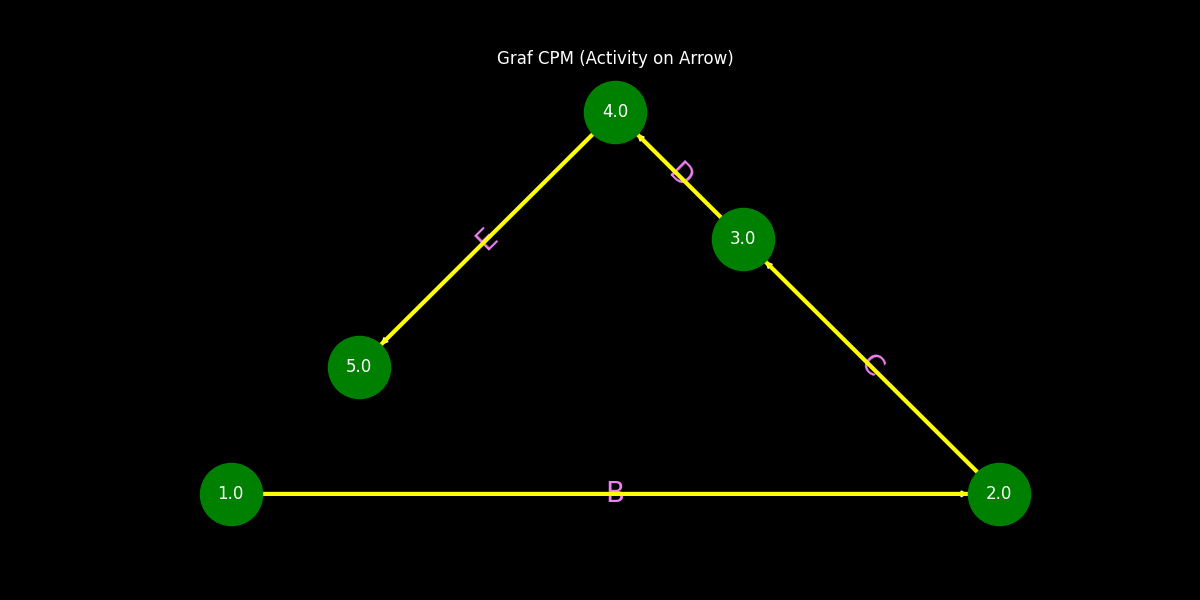
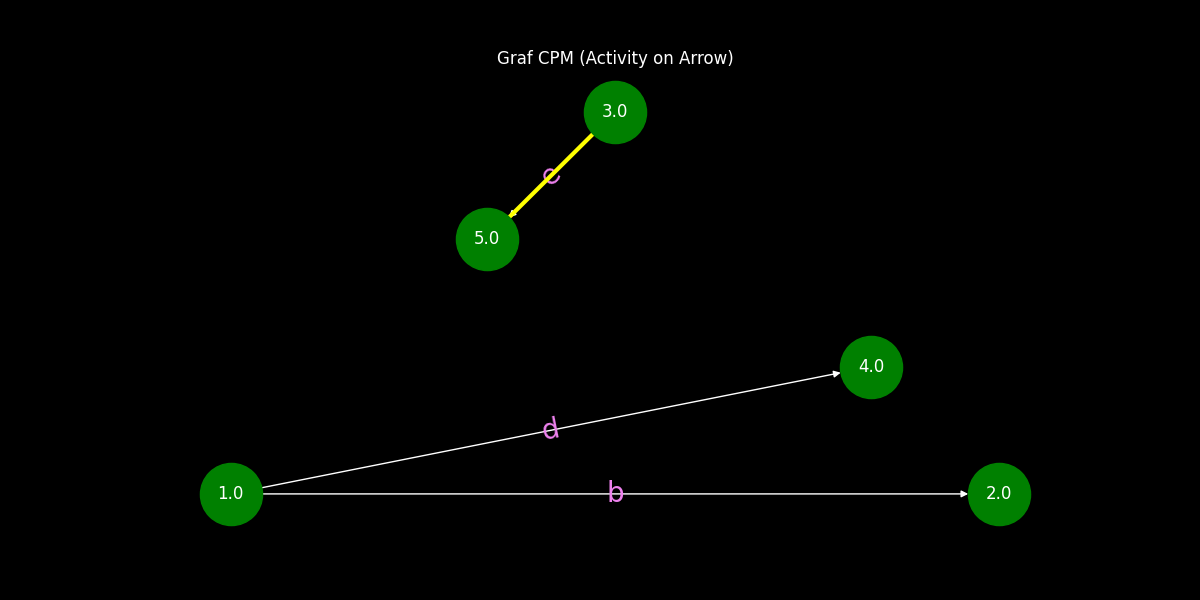
Aplikacja CPM - 1.0.3 - Rezerwa To Jest na Boisku

diff --git a/Script.js b/Script.js
@@ -187,6 +187,7 @@ function displayCalculations(calculations, criticalPath) {
         "Najwcześniejsze Zakończenie",
         "Najpóźniejszy Start",
         "Najpóźniejsze Zakończenie",
+        "Rezerwa Czasu",
         "Czy ŚK?"
     ];
     headers.forEach(header => {
@@ -210,9 +211,11 @@ function displayCalculations(calculations, criticalPath) {
         tdLS.innerText = calc.latest_start;
         let tdLF = document.createElement('td');
         tdLF.innerText = calc.latest_finish;
+        let tdSlack = document.createElement('td');
+        tdSlack.innerText = calc.latest_finish - calc.earliest_finish;
         let tdIsCritical = document.createElement('td');
         tdIsCritical.innerText = criticalPath.includes(calc.task) ? "Tak" : "Nie";
-        tr.append(tdTask, tdES, tdEF, tdLS, tdLF, tdIsCritical);
+        tr.append(tdTask, tdES, tdEF, tdLS, tdLF, tdSlack, tdIsCritical);
         tbody.appendChild(tr);
     });
     table.appendChild(tbody);

diff --git a/CPMGrafy.py b/CPMGrafy.py
@@ -31,21 +31,35 @@ def visualize_cpm_graph(tasks, critical_path=None): # Wizualizacja Grafu CPM Act
     nx.draw(G, pos, with_labels=False, node_color='green', edge_color='white', node_size=2000)
 
     node_labels = {n: G.nodes[n]['duration'] for n in G.nodes()}
+
     nx.draw_networkx_labels(G, pos, labels=node_labels, font_color='white', font_size=12)
 
     edge_labels = {}
+
     for task in tasks:
+
         if task["dependencies"] != "-":
+
             for dep in task["dependencies"].split(','):
+
                 edge_labels[(dep.strip(), task["name"])] = task["name"]
+
     nx.draw_networkx_edge_labels(
+
         G, pos,
+
         edge_labels=edge_labels,
+
         font_color='violet',
+
         font_size=20,
+
         label_pos=0.5,
+
         bbox=dict(alpha=0)
+
     )
+
 
     if critical_path:
 

diff --git a/Main.py b/Main.py
@@ -85,6 +85,6 @@ url = f"file:///{html_path}"
 
 # Tworzenie okna PyWebview i uruchamianie aplikacji
 
-webview.create_window("Metoda CPM", url, js_api=api, width=900, height=500)
+webview.create_window("Metoda CPM", url, js_api=api, width=1600, height=900)
 
 webview.start()
